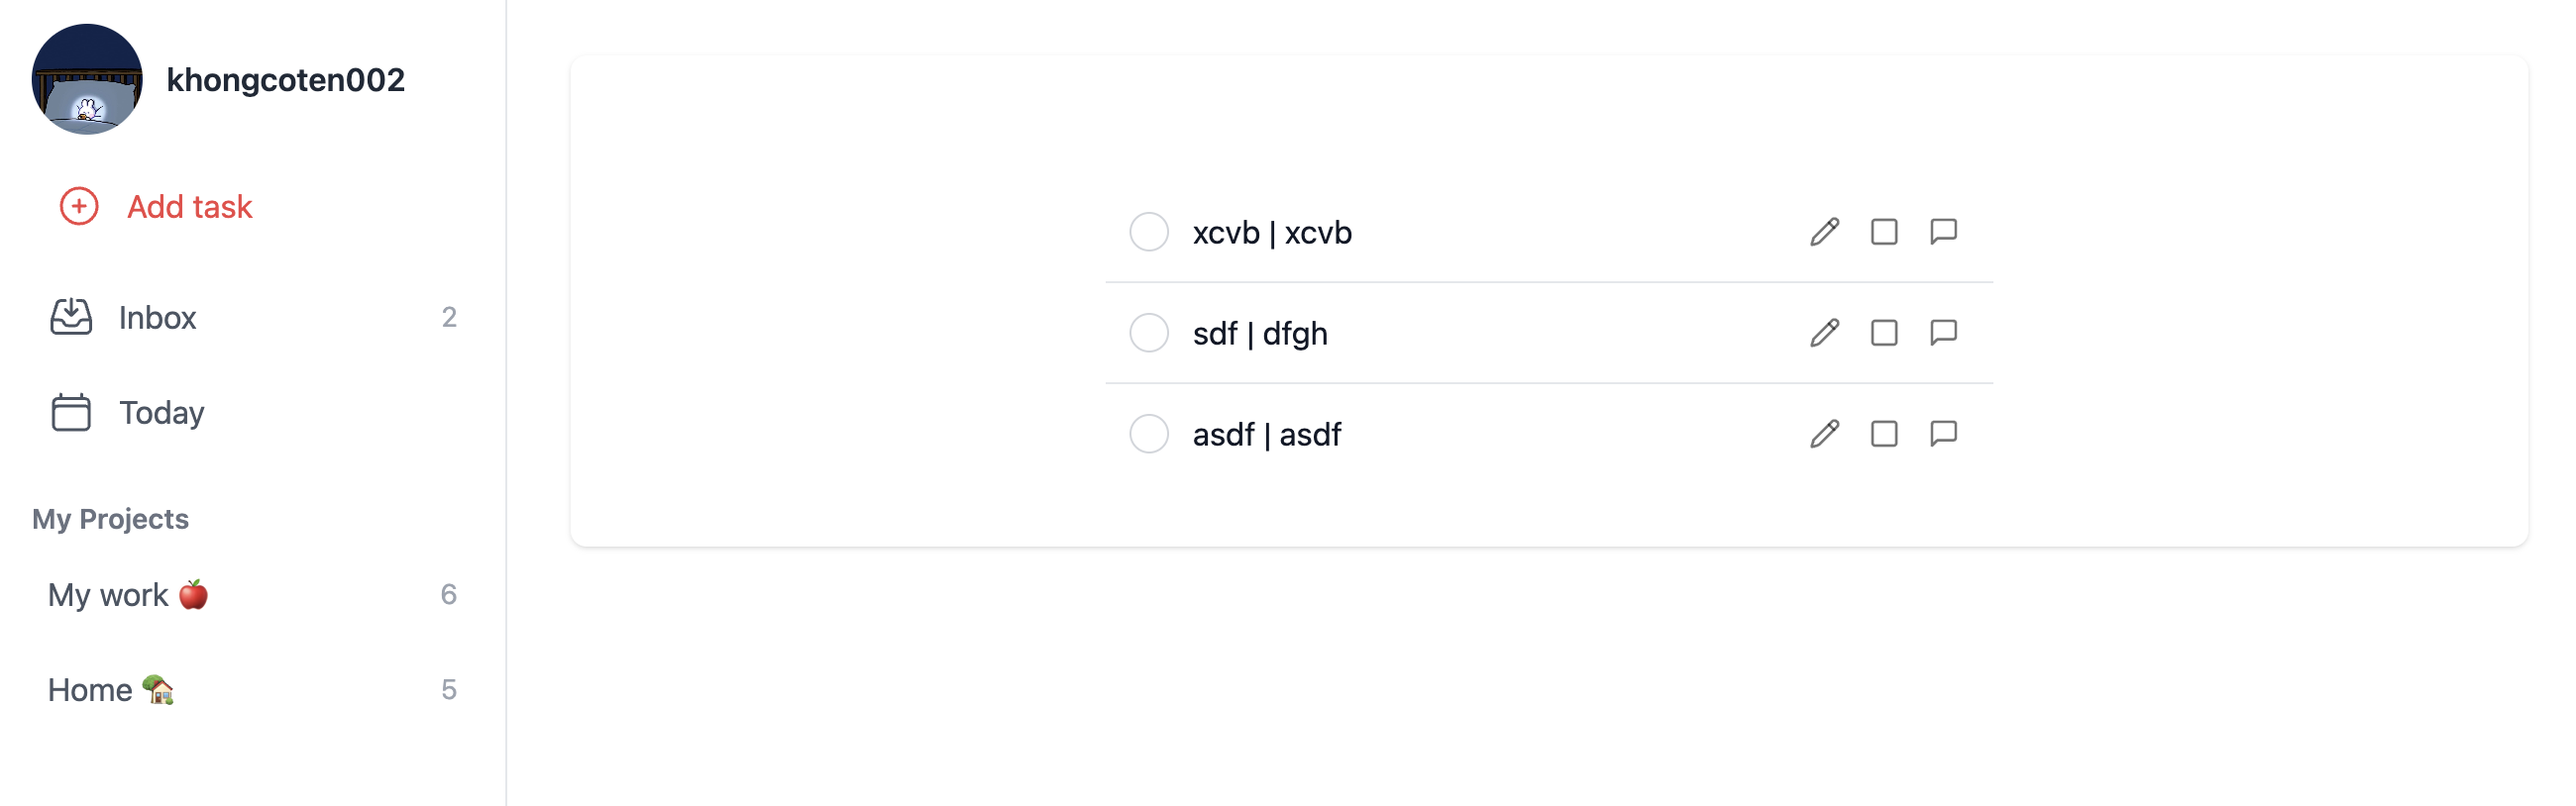
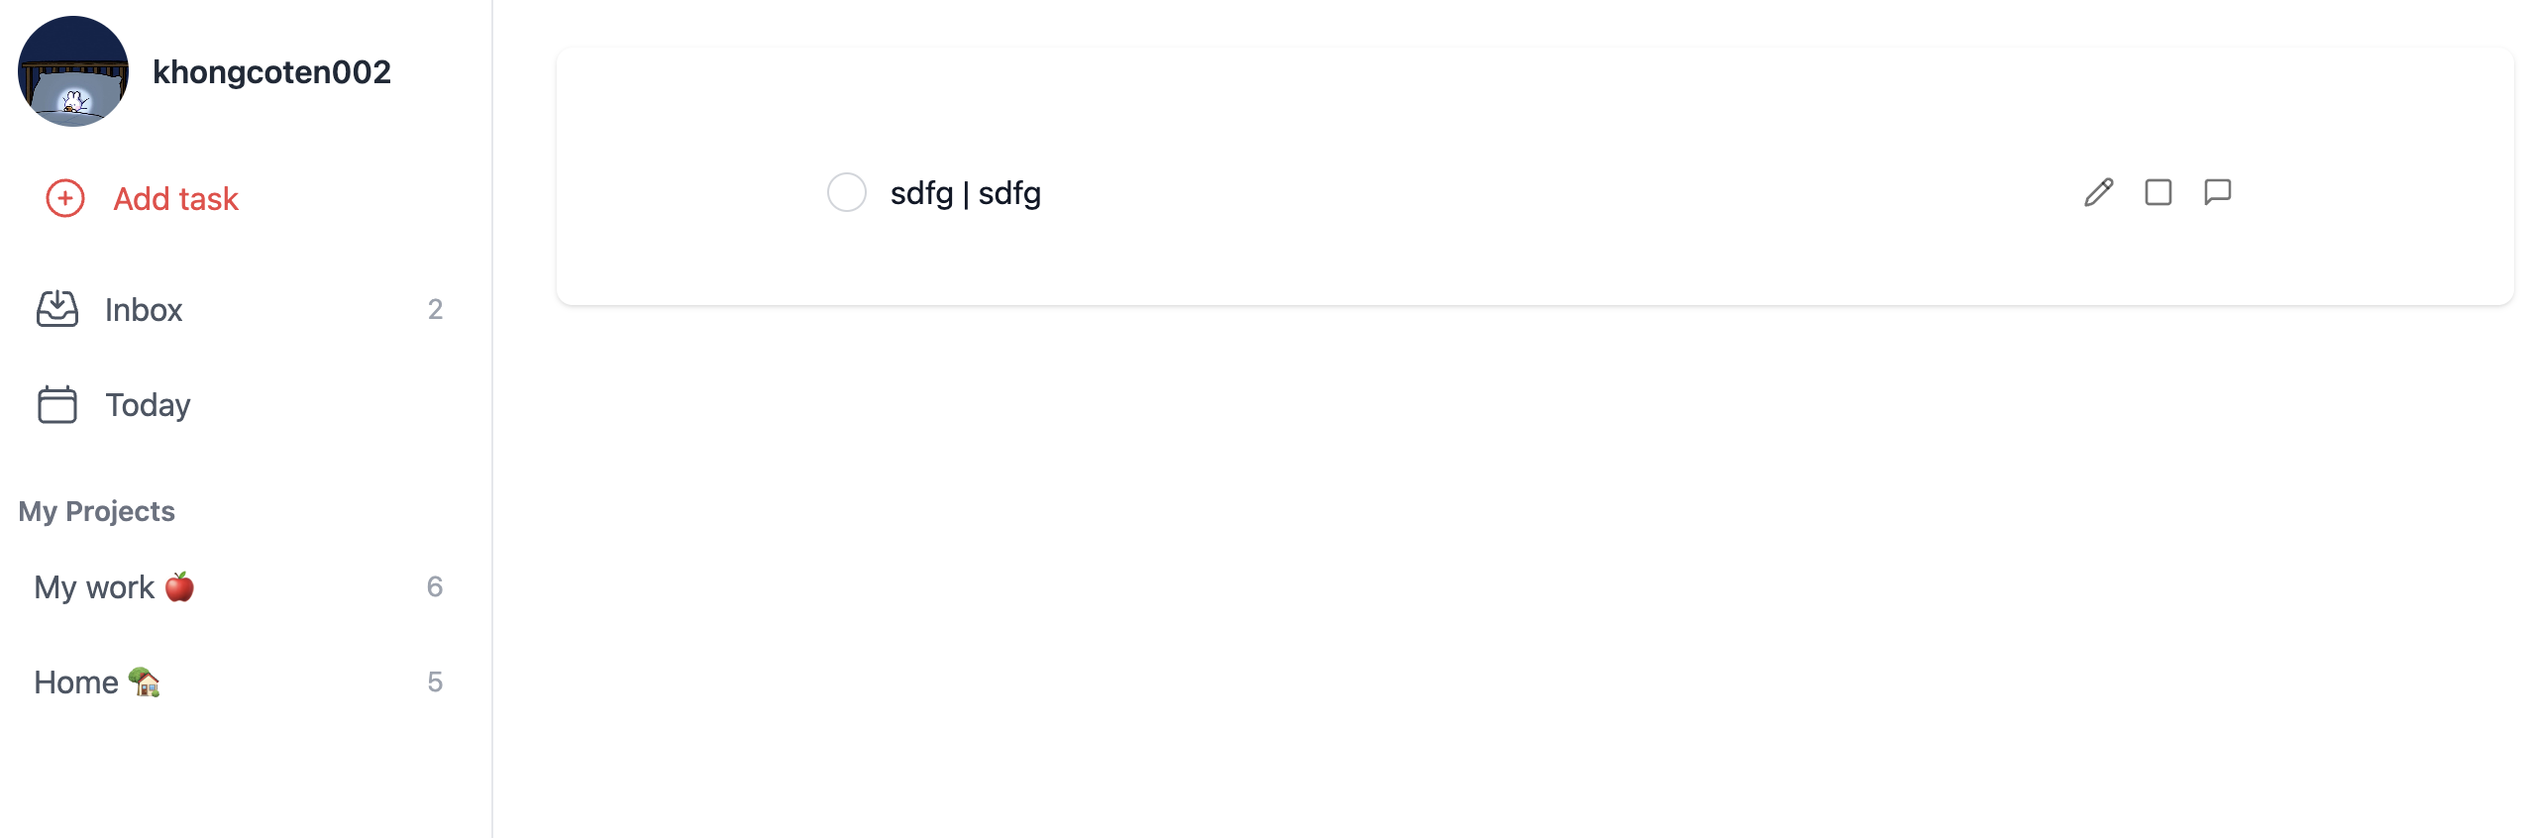
size

diff --git a/front-end/todolist/src/Index/ShowTasks.jsx b/front-end/todolist/src/Index/ShowTasks.jsx
@@ -45,12 +45,12 @@ export default function ShowTasks() {
   };
 
   return (
-    <div className="max-w-md mx-auto mt-8 bg-white">
+    <div className="w-4/5 mx-auto mt-4 bg-white">
       <ul className="divide-y divide-gray-200 " role="list">
         {todos.map((todo) => (
           <li
             key={todo.Title}
-            className="flex items-center justify-between py-3 px-3 ml-auto"
+            className="flex items-center justify-between py-3 px-3 hover:bg-gray-50"
           >
             <div className="flex items-center">
               <Checkbox.Root
